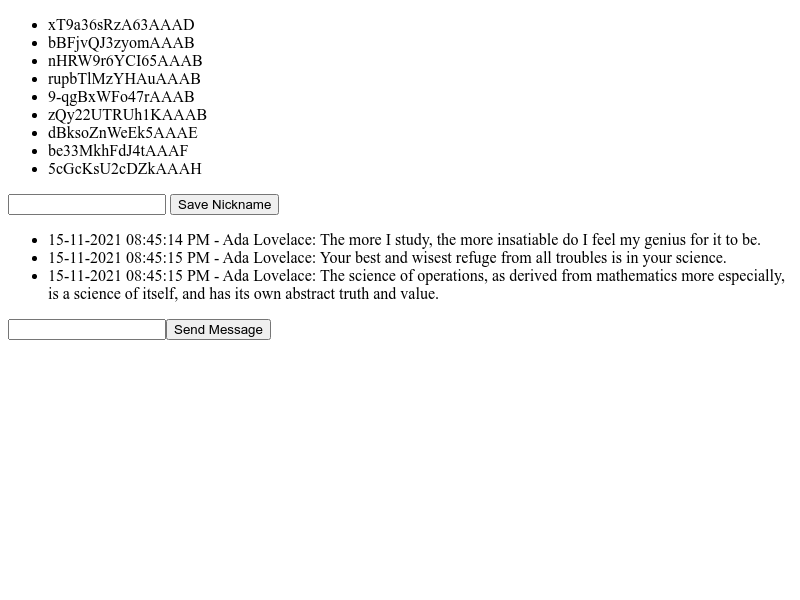
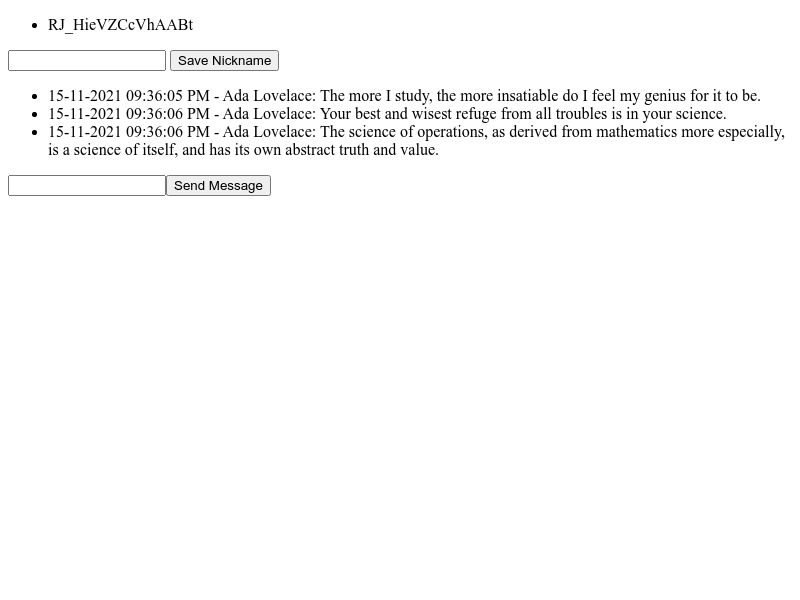
req4

Changed region(s): [[0.0, 0.03, 0.9688, 0.36], [0.0625, 0.39, 0.9688, 0.51], [0.1875, 0.54, 0.3438, 0.57]]

diff --git a/public/js/chat.js b/public/js/chat.js
@@ -9,6 +9,16 @@ const usersListUl = document.querySelector('#online-users');
 
 let usersListClient = [];
 
+// SESSION STORAGE FUNCTION
+const setNicknameIntoSessionStorage = (nickname) => sessionStorage.setItem('nickname', nickname);
+const getNicknameFromSessionStorage = () => sessionStorage.nickname || (socket.id).substr(4);
+const setInitialNicknameIntoSessionStorage = () => {
+  if (typeof socket.id === 'string') {
+    const nicknameToSet = (socket.id).substr(4);
+    setNicknameIntoSessionStorage(nicknameToSet);
+  }
+};
+
 // HTML FUNCTIONS
 const createServerMessage = (message) => {
   const li = document.createElement('li');
@@ -23,24 +33,25 @@ const createChatMessage = (chatMessage) => {
   messagesUl.appendChild(li);
 };
 
-const renderUsersList = () => {
-  usersListUl.innerHTML = '';
-  usersListClient.forEach((nickname) => {
-    const li = document.createElement('li');
+const createUserLi = (nickname) => {
+  const li = document.createElement('li');
     li.setAttribute('data-testid', 'online-user');
     li.innerText = nickname;
     usersListUl.appendChild(li);
+};
+
+const renderUsersList = () => {
+  usersListUl.innerHTML = '';
+  const clientNickname = getNicknameFromSessionStorage();
+  createUserLi(clientNickname);
+  usersListClient.forEach((nickname) => {
+    if (clientNickname !== nickname) {
+      createUserLi(nickname);
+    }
   });
 };
 
 // NORMAL FUNCTIONS
-const setNicknameIntoSessionStorage = (nickname) => {
-  if (typeof nickname === 'string') {
-    sessionStorage.setItem('nickname', nickname);
-  }
-};
-const getNicknameFromSessionStorage = () => sessionStorage.nickname || (socket.id).substr(4);
-
 const sendUsersListToServer = () => {
   socket.emit('usersListFromClient', usersListClient);
 };
@@ -62,6 +73,8 @@ const updateNicknameAndSendToServer = () => {
   const previusNickname = getNicknameFromSessionStorage();
   const newNickname = inputNickname.value;
   const nicknameIndex = usersListClient.indexOf(previusNickname);
+  console.log(usersListClient);
+  console.log(previusNickname);
   usersListClient[nicknameIndex] = newNickname;
   setNicknameIntoSessionStorage(newNickname);
   socket.emit('updateNickname', newNickname);
@@ -119,6 +132,6 @@ socket.on('removeNickname', (nicknameToRemove) => removeNicknameFromServer(nickn
 socket.on('messagesToLoad', (messages) => loadDBMessages(messages));
 
 window.onload = () => {
-  setNicknameIntoSessionStorage((socket.id));
+  setInitialNicknameIntoSessionStorage();
   requestMessagesToLoad();
 };
